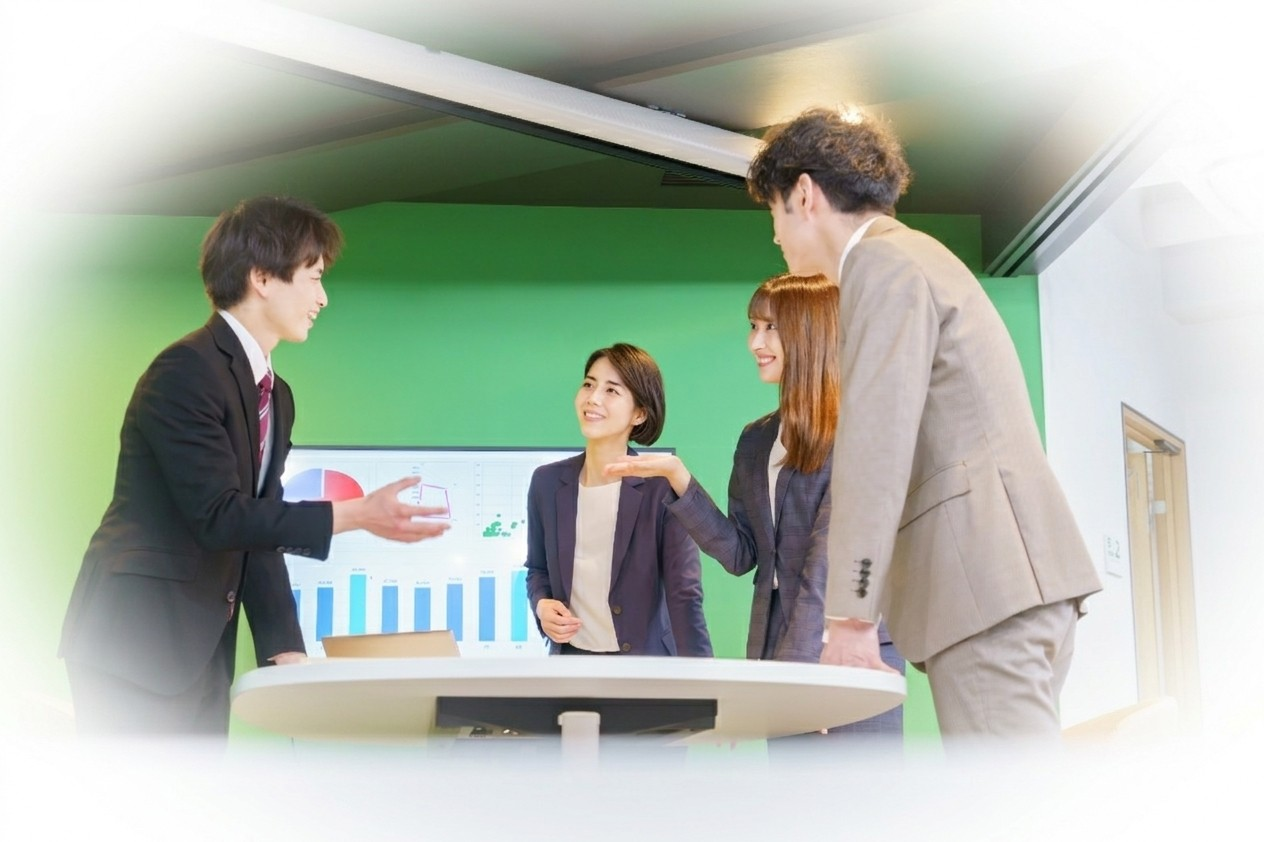
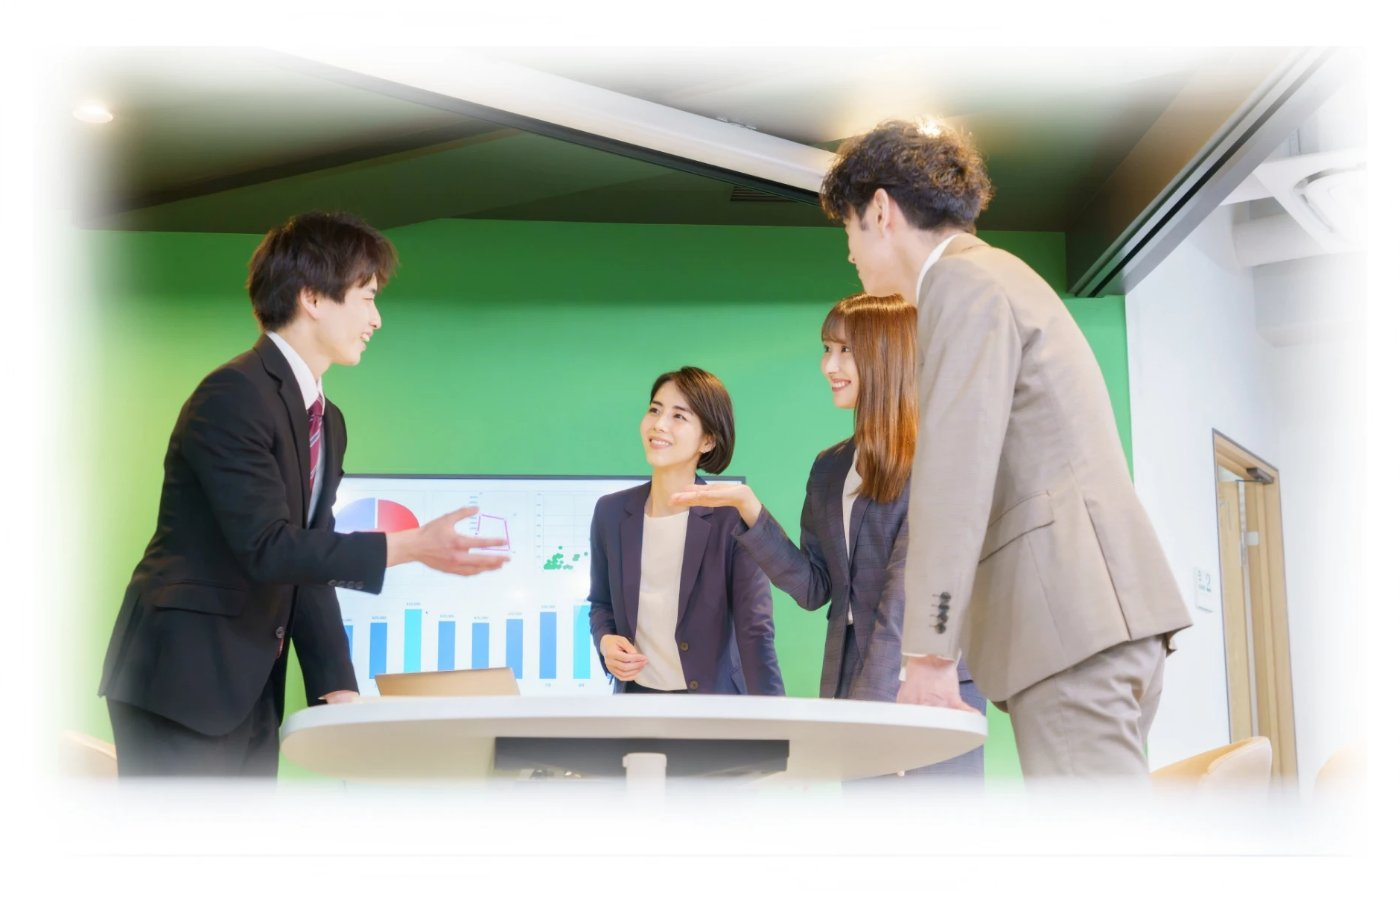
EQコアカード：08「使う人から、場をつくる人へ。」の写真を新しい画像に差し替え

diff --git a/corecard.html b/corecard.html
@@ -224,7 +224,7 @@
   <div class="cc-course" id="course">
     <div class="cc-course__head">
       <h2 class="cc-course__type cc-chars"><span class="l">使う人から、</span><span class="l l--2">場をつくる人へ。</span></h2>
-      <figure class="cc-photo cc-photo--seminar" aria-hidden="true"><img src="images/cc-seminar.jpg" alt="" loading="lazy" decoding="async"></figure>
+      <figure class="cc-photo cc-photo--seminar" aria-hidden="true"><img src="images/cc-seminar.jpg?v=2" alt="" loading="lazy" decoding="async"></figure>
     </div>
     <div class="cc-stairs-wrap" data-reveal><span class="cc-stairs__beam" aria-hidden="true"></span><ol class="cc-stairs">
       <li><small>STEP 1</small>公式ナビゲーター<span>体験会を開催できる</span></li>

diff --git a/css/corecard.css b/css/corecard.css
@@ -410,3 +410,4 @@
 .cc-row--1 .cc-row__img::after,.cc-row--2 .cc-row__img::after,.cc-row--3 .cc-row__img::after{inset:0;box-shadow:inset 0 0 30px 12px var(--white)}
 /* 06 captions that sit on the brighter photo get a soft dark backing so they stay readable */
 .cc-proc__list .d{color:var(--paper);justify-self:start;padding:6px 12px;border-radius:8px;background:rgba(13,20,36,.5)}
+.cc-photo--seminar{aspect-ratio:1400/901}
